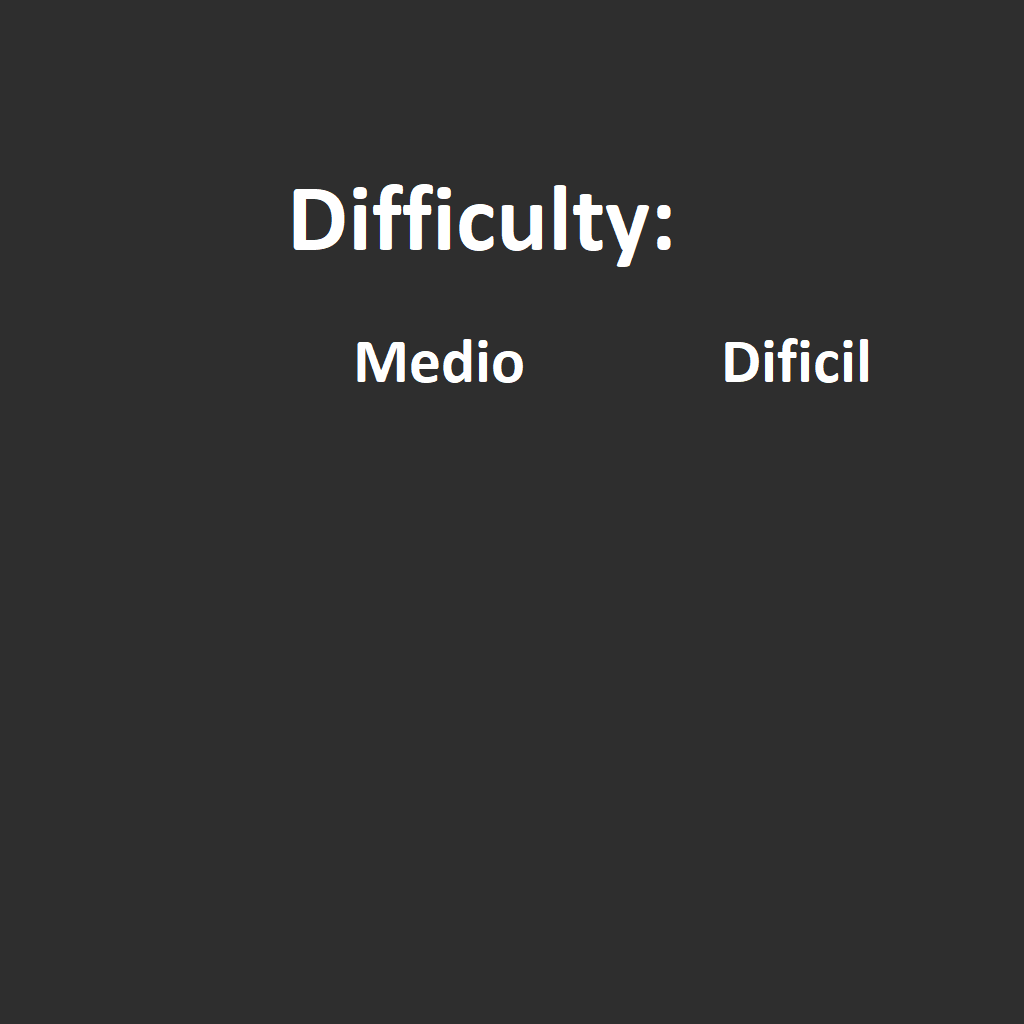
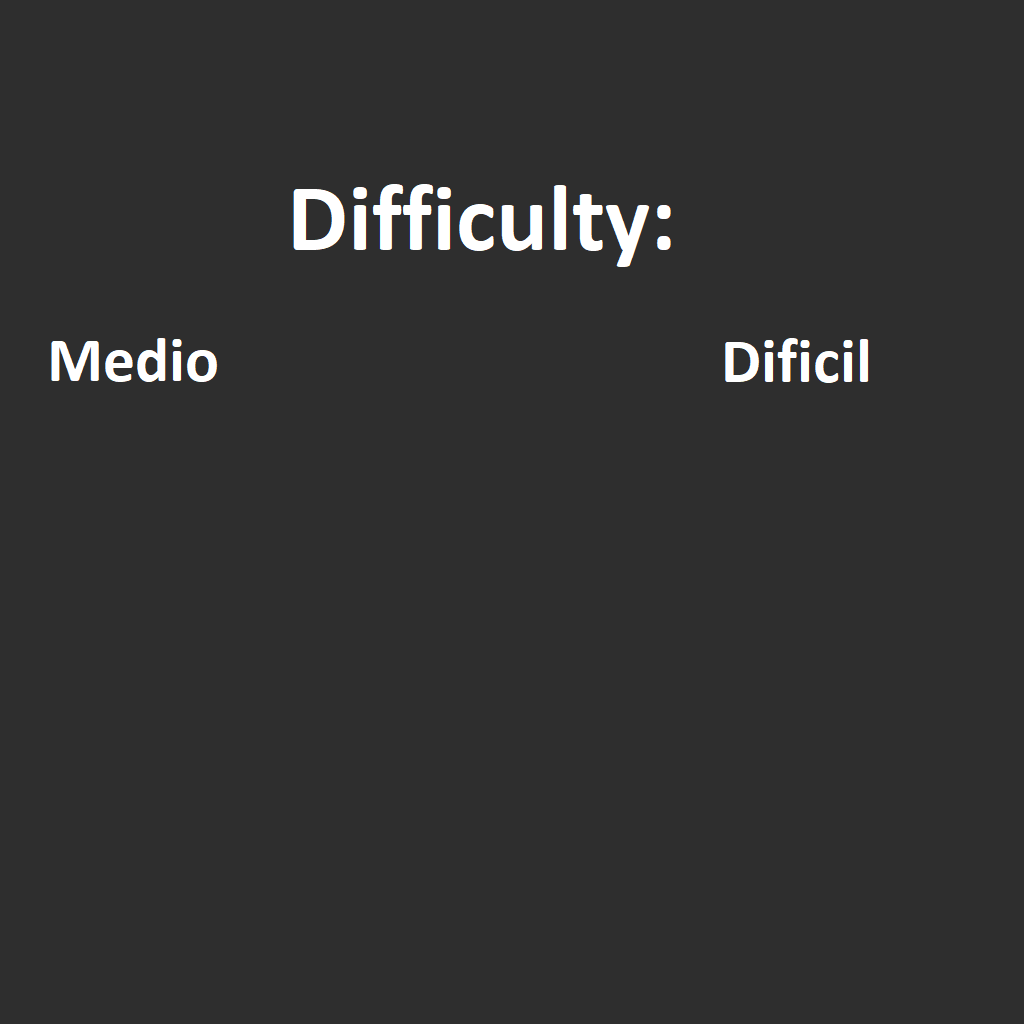
menu a desaparecer done

Changed region(s): [[0.3438, 0.3125, 0.5312, 0.375], [0.0312, 0.3125, 0.2188, 0.375]]

diff --git a/Component.js b/Component.js
@@ -15,6 +15,7 @@ class Component
 	    this.tex = tex; 
 	    this.childrenPrimitives = childrenPrimitives;
 	    this.childrenComponents = childrenComponents;
+	    this.all = 0;
 		this.scene = scene;
 		this.materialCurrentIndex = 0;
 		this.animationsID = anim;
@@ -126,23 +127,23 @@ class Component
 		this.incrementIndex();
 	}
 
-	startGame(tipo, p1_color, p2_color,dif){
+	startGame(tipo,dif){
+
 		if(tipo == "" && p1_color == "" && p2_color == ""){
 			alert("Not available game");
 			console.log("Type undefined")
 		} else if(tipo == "estiloA"){
-			console.log("TIPO: " + tipo + " p1: " + p1_color + " p2: " + p2_color + " dif: " + dif)
+			console.log("TIPO:  " + tipo + "dif: " + dif)
 			this.scene.game.start("Human vs Human" , "null")
-			this.menuFlag = false;
 		} else if(tipo == "estiloB"){
-			console.log("TIPO: " + tipo + " p1: " + p1_color + " p2: " + p2_color + " dif: " + dif)
-			this.menuFlag = false;
+			console.log("TIPO:  " + tipo + "dif: " + dif)
 			this.scene.game.start("Human vs Computer" , dif)
 		} else if(tipo == "estiloC"){
-			console.log("TIPO: " + tipo + " p1: " + p1_color + " p2: " + p2_color + " dif: " + dif)
+			console.log("TIPO:  " + tipo + "dif: " + dif)
 			this.scene.game.start("Computer vs Computer" , "null")
-			this.menuFlag = false;
 		}
+
+		this.scene.menu = false;
 		
 	}
 
@@ -159,6 +160,9 @@ class Component
 	display(board, parentMaterialId, parentTextureId) {		
 
 		// Component Children
+
+		//console.log("MENU: " + this.scene.menu)
+
 		for(var i = 0; i < this.childrenComponents.length; i++){
 			if(this.scene.graph.components[this.childrenComponents[i]] != null){
 
@@ -172,13 +176,12 @@ class Component
 					this.applyAnimation();
 				}
 
-				/*if(this.childrenComponents[i] == "diffImage" ){
-					console.log(this.scene.graph.components["diffImage"].diff);
-					console.log("trying")
-				}*/
+				if((this.childrenComponents[i] == "estiloA" || this.childrenComponents[i] == "estiloB" || this.childrenComponents[i] == "estiloC" 
+					|| this.childrenComponents[i] == "difB" || this.childrenComponents[i] == "difC" || this.childrenComponents[i] == "go" ||
+					this.childrenComponents[i] == "menu" || this.childrenComponents[i] == "estiloAText" || this.childrenComponents[i] == "diffImage")
+					 && this.scene.menu == true){
 
-				if(this.menuFlag == true){
-
+					
 					if(this.mat[0] == "inherit" && this.tex[0] != "inherit"){
 						this.scene.graph.components[this.childrenComponents[i]].display(board, parentMaterialId, this.tex[0]);
 					}
@@ -194,13 +197,32 @@ class Component
 					if(this.mat[0] != "inherit" && this.tex[0] != "inherit"){
 						this.scene.graph.components[this.childrenComponents[i]].display(board, this.mat[0], this.tex[0]);
 					}
+
+				} else if(this.childrenComponents[i] != "estiloA" && this.childrenComponents[i] != "estiloB" && this.childrenComponents[i] != "estiloC" 
+					&& this.childrenComponents[i] != "difB" && this.childrenComponents[i] != "difC" && this.childrenComponents[i] != "go" &&
+					this.childrenComponents[i] != "menu" && this.childrenComponents[i] != "estiloAText" && this.childrenComponents[i] != "diffImage"){
+
+				if(this.mat[0] == "inherit" && this.tex[0] != "inherit"){
+					this.scene.graph.components[this.childrenComponents[i]].display(board, parentMaterialId, this.tex[0]);
 				}
+
+				if(this.mat[0] == "inherit" && this.tex[0] == "inherit"){
+					this.scene.graph.components[this.childrenComponents[i]].display(board, parentMaterialId, parentTextureId);
+				}
+
+				if(this.mat[0] != "inherit" && this.tex[0] == "inherit"){
+					this.scene.graph.components[this.childrenComponents[i]].display(board, this.mat[0], parentTextureId);
+				}
+
+				if(this.mat[0] != "inherit" && this.tex[0] != "inherit"){
+					this.scene.graph.components[this.childrenComponents[i]].display(board, this.mat[0], this.tex[0]);
+				} }
+				
 
 
 
 				if(this.childrenComponents[i] == "estiloA"){
 					this.scene.registerForPick(101, this.childrenComponents[i]);
-					//console.log("101")
 				}
 				else if(this.childrenComponents[i] == "estiloB"){
 					//console.log("EstiloB")
@@ -224,26 +246,7 @@ class Component
 					this.scene.registerForPick(106, this.childrenComponents[i]);
 				}
 
-				else if(this.childrenComponents[i] == "player1_1"){
-					//console.log("go")
-					this.scene.registerForPick(103, this.childrenComponents[i]);
-				}
-
-				else if(this.childrenComponents[i] == "player1_2"){
-					//console.log("go")
-					this.scene.registerForPick(108, this.childrenComponents[i]);
-				}
-
-				else if(this.childrenComponents[i] == "player2_1"){
-					//console.log("go")
-					this.scene.registerForPick(109, this.childrenComponents[i]);
-				}
-
-				else if(this.childrenComponents[i] == "player2_2"){
-					//console.log("go")
-					this.scene.registerForPick(110, this.childrenComponents[i]);
-				}
-
+		
 
 				this.scene.popMatrix();
 			} 

diff --git a/XMLscene.js b/XMLscene.js
@@ -51,6 +51,8 @@ class XMLscene extends CGFscene {
         this.deltaTime = 0;
         this.setUpdatePeriod(1000 * (1/FPS));
 
+        this.menu = true;
+
         this.setPickEnabled(true);
     }
 
@@ -89,34 +91,12 @@ class XMLscene extends CGFscene {
                         this.graph.components["estiloC"].changeSelectedColor();
                     }
                     else if(this.pickResults[i][1] == 103){
-                        console.log("player 1_1")
-                        this.player1 = "orange"
-                        this.graph.components["player1_1"].changeSelectedColor();
-                    }
-
-                    else if(this.pickResults[i][1] == 107){
-                        console.log("player 1_2")
-                        this.player2 = "brown"
-                        this.graph.components["player1_2"].changeSelectedColor();
-                    }
-
-                    else if(this.pickResults[i][1] == 108){
-                        console.log("player 2_1")
-                        this.player2="orange"
-                        this.graph.components["player2_1"].changeSelectedColor();
-                    }
-
-                    else if(this.pickResults[i][1] == 109){
-                        console.log("player 2_2")
-                        this.player2="brown"
-                        this.graph.components["player2_2"].changeSelectedColor();
-                    }
-
-                    else if(this.pickResults[i][1] == 110){
                         console.log("easy")
                         this.dif="easy"
                         this.graph.components["difB"].changeSelectedColor();
                     }
+
+                   
                     else if(this.pickResults[i][1] == 104){
                         console.log("agressive")
                         this.dif="agressive"
@@ -124,7 +104,7 @@ class XMLscene extends CGFscene {
                     }
                     else if(this.pickResults[i][1] == 105){
                         console.log("start with: " + this.tipo)
-                        this.graph.components["go"].startGame(this.tipo, this.player1, this.player2, this.dif);
+                        this.graph.components["go"].startGame(this.tipo, this.dif);
                     }
 
                 }
